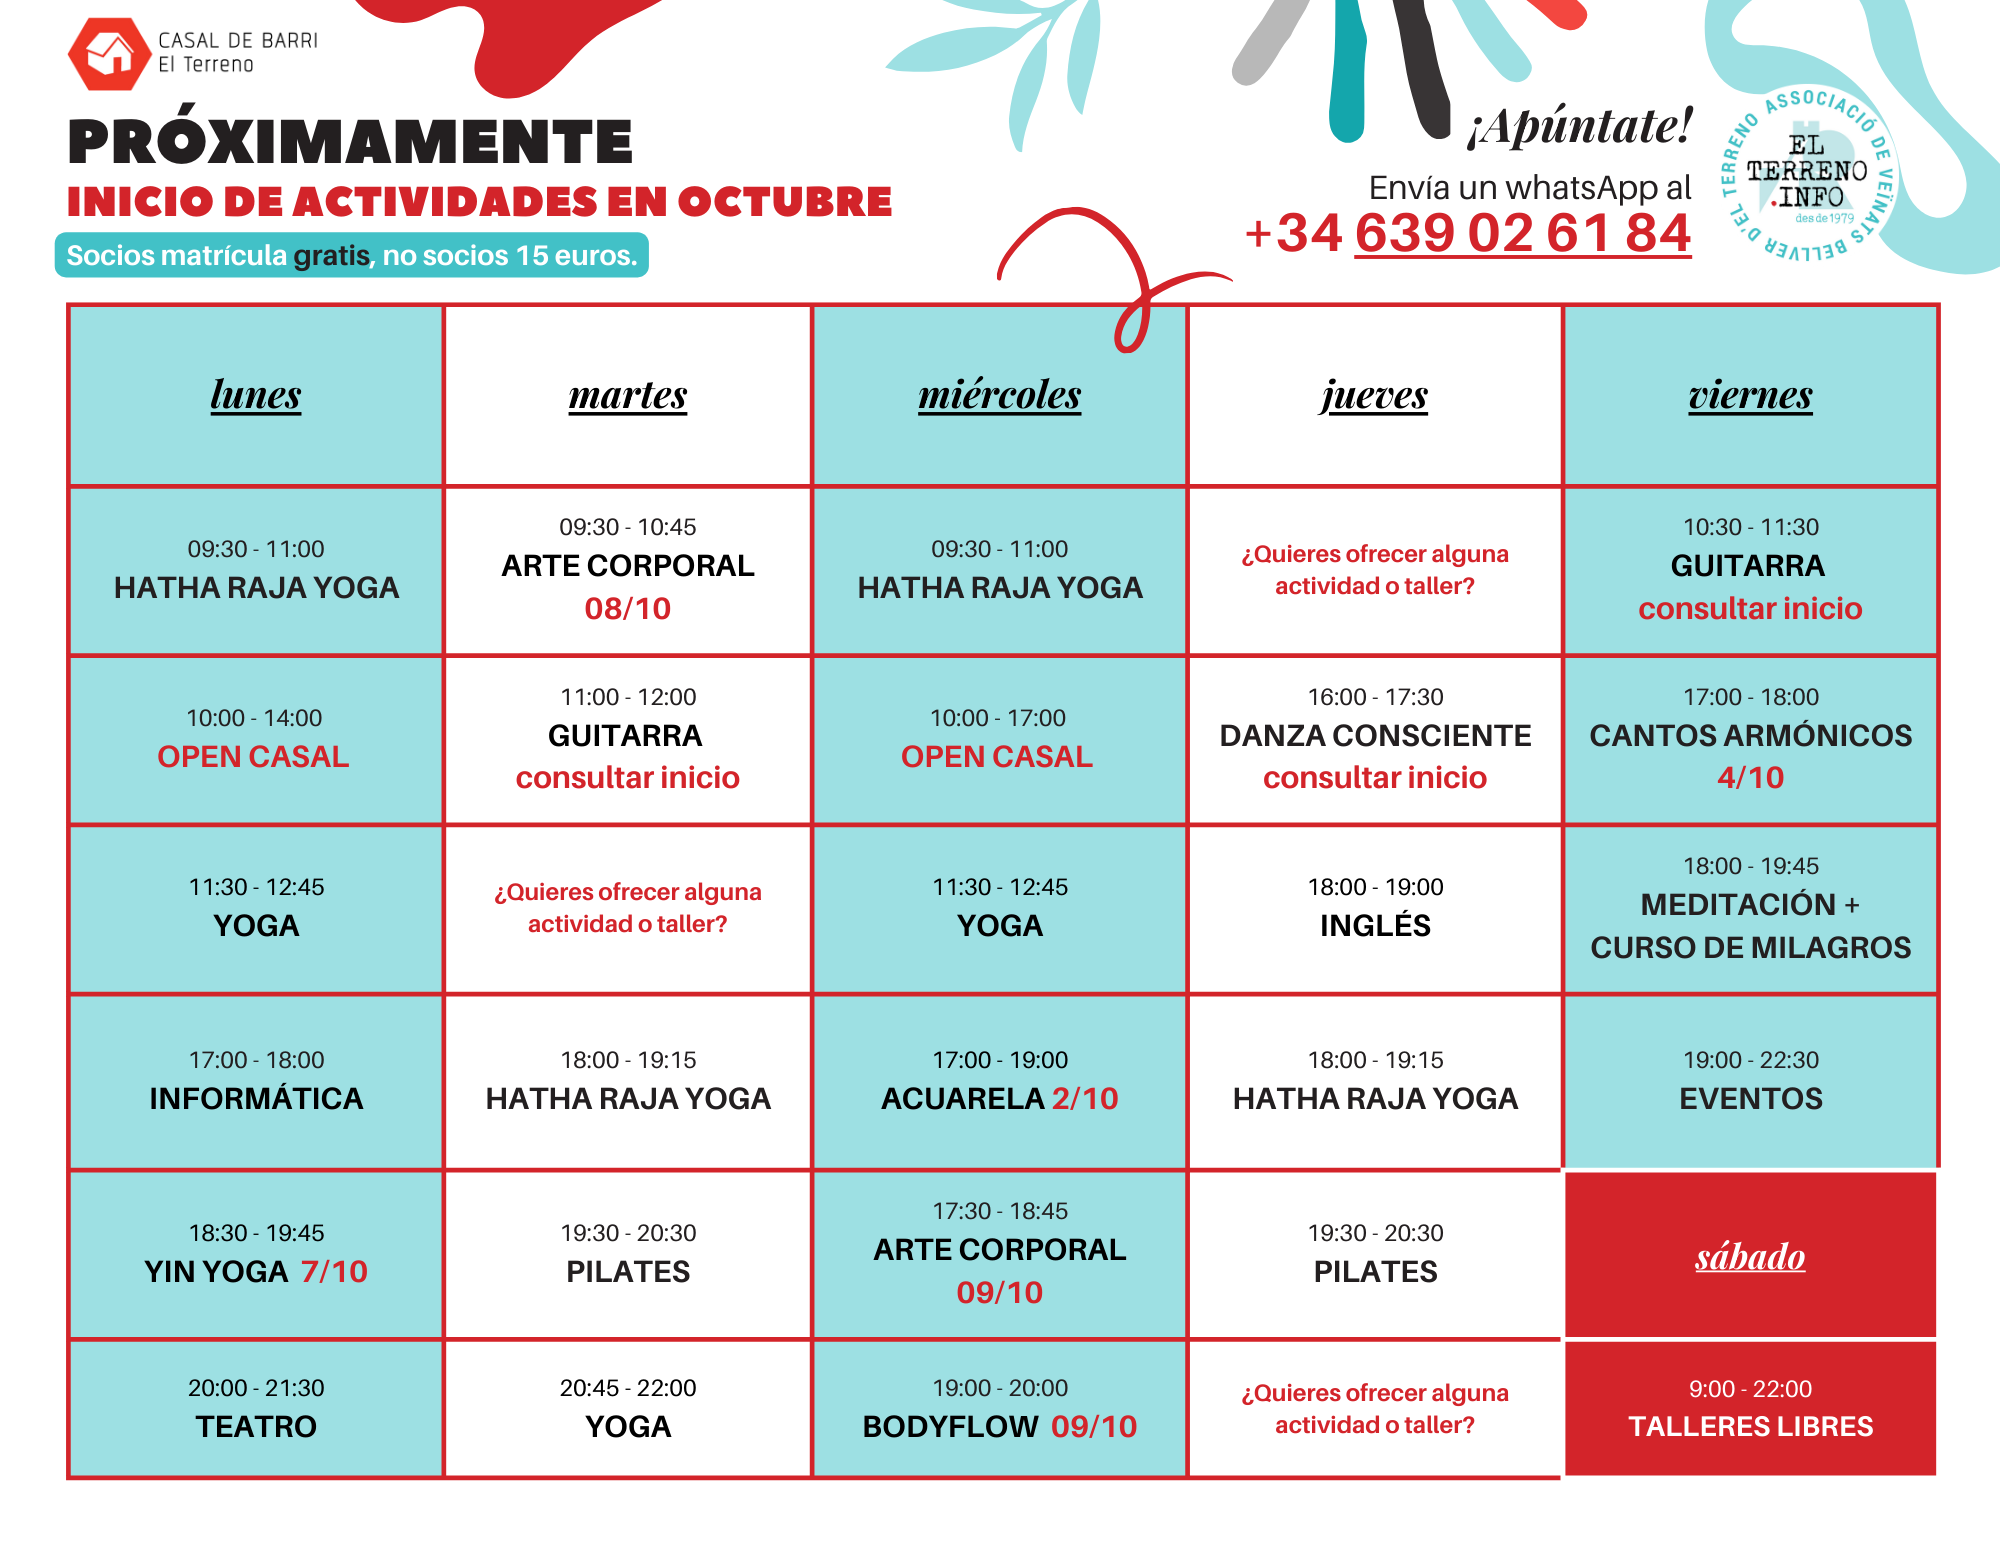
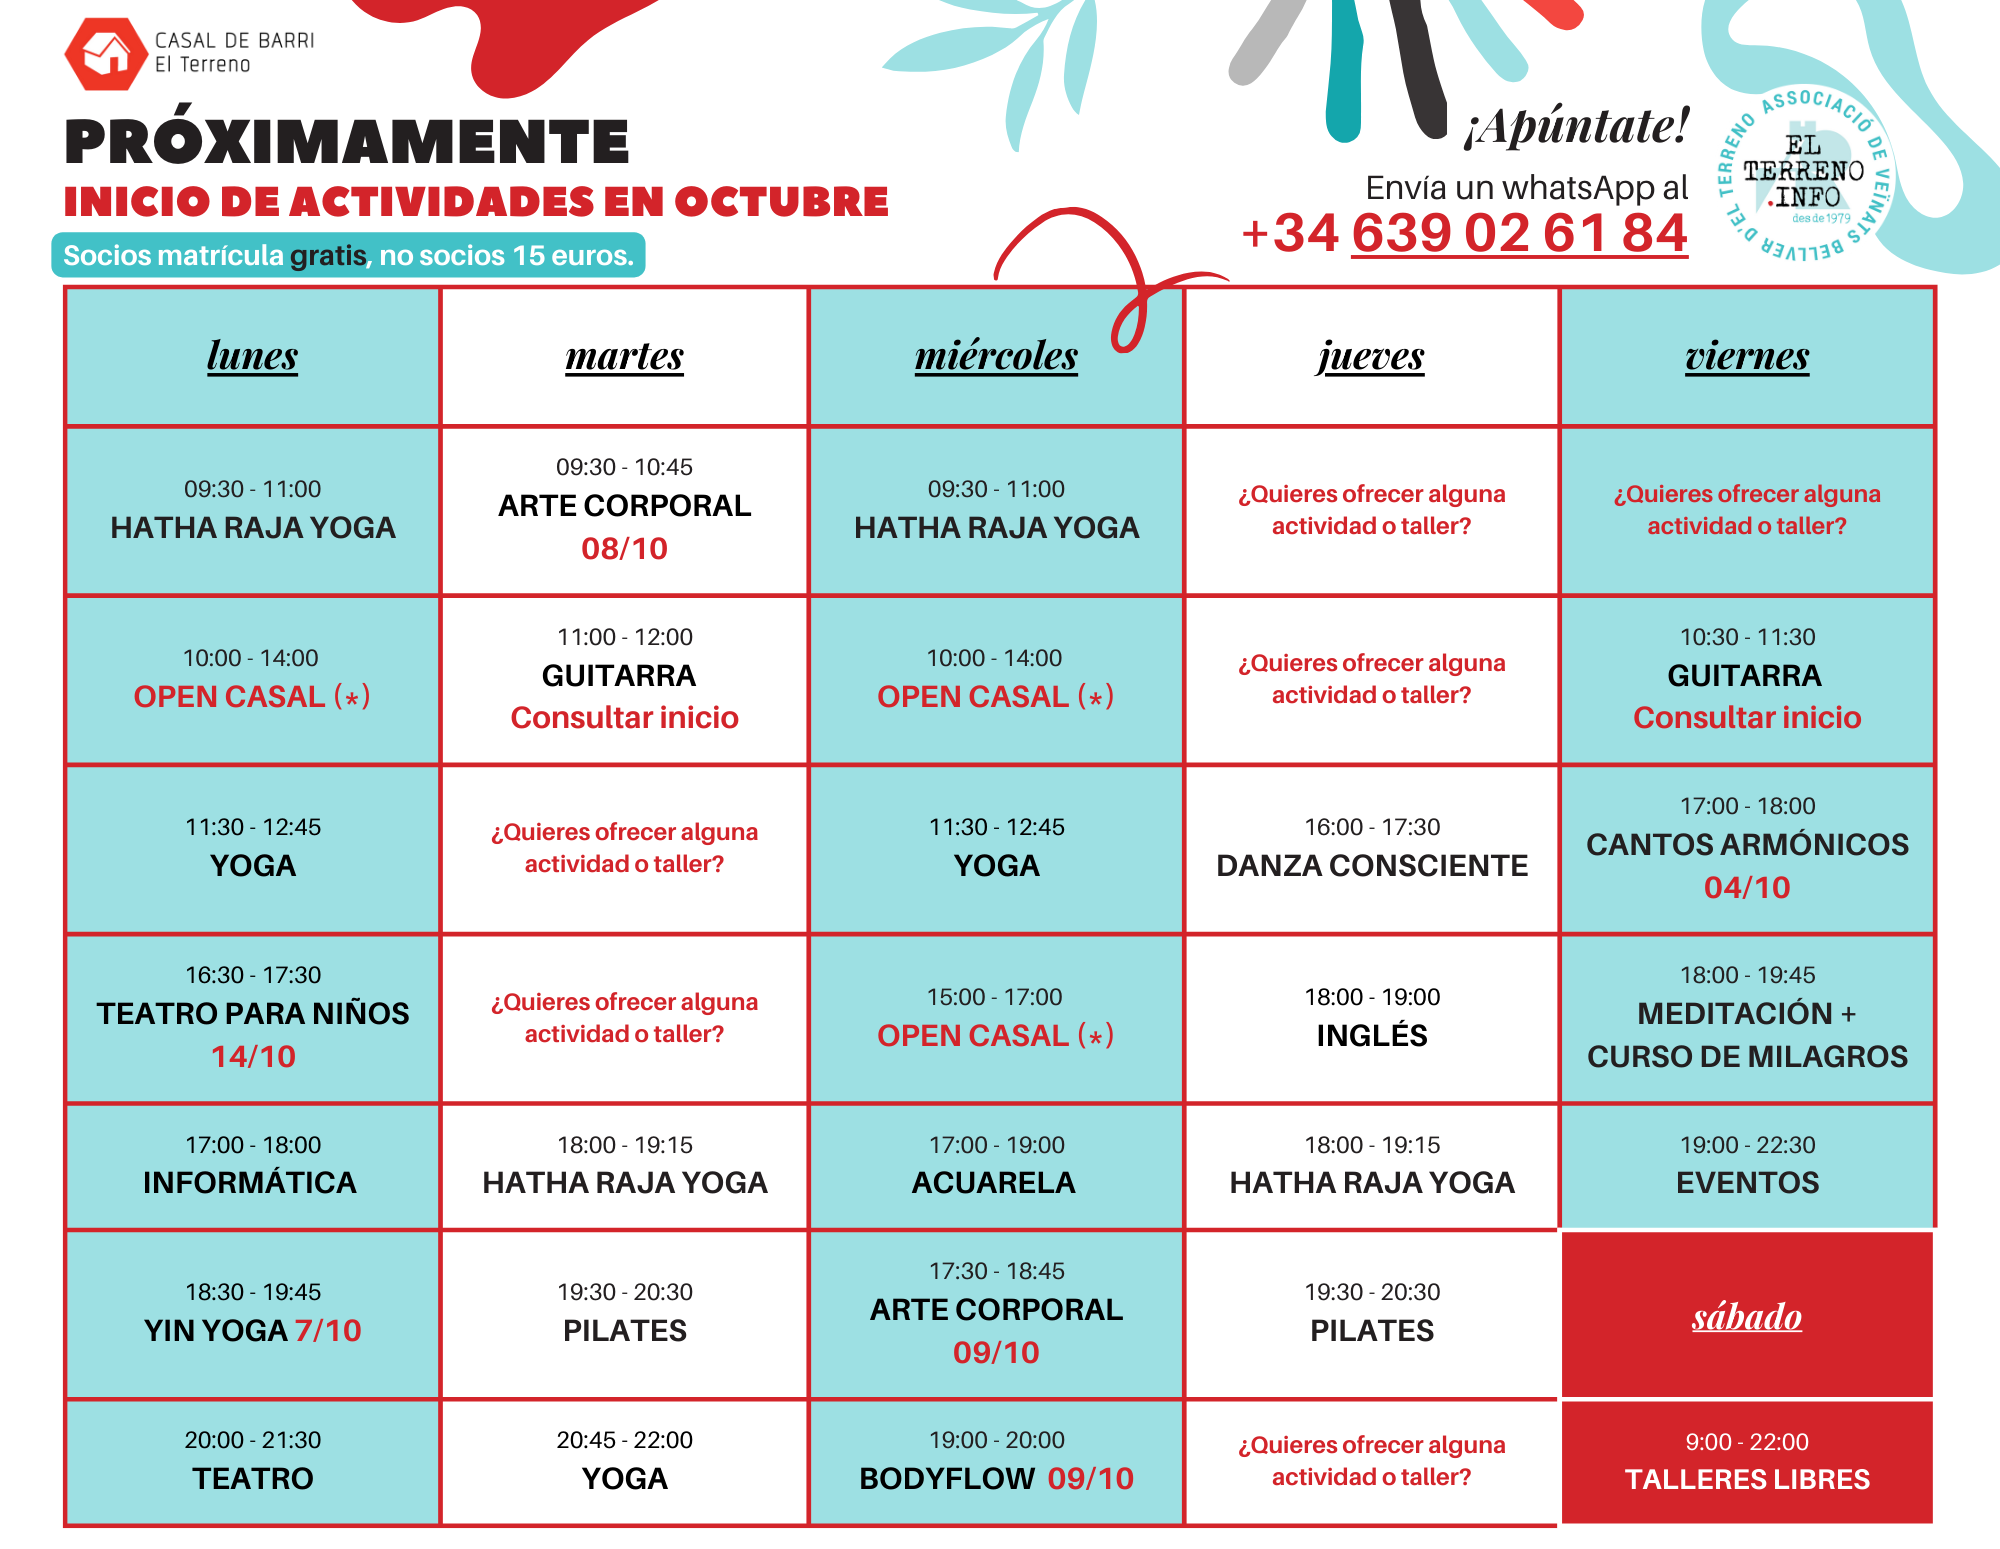
v6.1

diff --git a/index.html b/index.html
@@ -67,12 +67,13 @@
                 <a href="https://api.whatsapp.com/send/?phone=+34687773179&text=%C2%A1Hola%21+Quiero+hacer+una+consulta+sobre+las+clases+de+Guitarra+en+el+casal+de+El+Terreno...+&type=phone_number&app_absent=0" target="_blank" class="cta-button">Guitarra</a>
                 <a href="https://api.whatsapp.com/send/?phone=+34626789134&text=%C2%A1Hola%21+Quiero+hacer+una+consulta+sobre+las+clases+de+Danza+Consciente+en+el+casal+de+El+Terreno...+&type=phone_number&app_absent=0" target="_blank" class="cta-button">Danza Consciente</a>
                 <a href="https://api.whatsapp.com/send/?phone=+34610233159&text=%C2%A1Hola%21+Quiero+hacer+una+consulta+sobre+las+clases+de+Teatro+en+el+casal+de+El+Terreno...+&type=phone_number&app_absent=0" target="_blank" class="cta-button">Teatro</a>
+                <a href="https://api.whatsapp.com/send/?phone=+34610233159&text=%C2%A1Hola%21+Quiero+hacer+una+consulta+sobre+las+clases+de+Teatro+para+Niños+en+el+casal+de+El+Terreno...+&type=phone_number&app_absent=0" target="_blank" class="cta-button">Teatro para Niños</a>
                 <a href="https://api.whatsapp.com/send/?phone=+34630828869&text=%C2%A1Hola%21+Quiero+hacer+una+consulta+sobre+las+clases+de+Yoga+en+el+casal+de+El+Terreno...+&type=phone_number&app_absent=0" target="_blank" class="cta-button">Yoga</a>
                 <a href="https://api.whatsapp.com/send/?phone=+34696411611&text=%C2%A1Hola%21+Quiero+hacer+una+consulta+sobre+las+clases+de+Hatha+Raja+Yoga+en+el+casal+de+El+Terreno...+&type=phone_number&app_absent=0" target="_blank" class="cta-button">Hatha Raja Yoga</a>
                 <a href="https://api.whatsapp.com/send/?phone=+34626892849&text=%C2%A1Hola%21+Quiero+hacer+una+consulta+sobre+las+clases+de+Yin+Yoga+en+el+casal+de+El+Terreno...+&type=phone_number&app_absent=0" target="_blank" class="cta-button">Yin Yoga</a>
-                <a href="https://api.whatsapp.com/send/?phone=+34639157727&text=%C2%A1Hola%21+Quiero+hacer+una+consulta+sobre+los+paseos+vecinales+en+El+Terreno...+&type=phone_number&app_absent=0" target="_blank" class="cta-button">Paseo Vecinal</a>
                 <a href="https://api.whatsapp.com/send/?phone=+34679867345&text=%C2%A1Hola%21+Quiero+hacer+una+consulta+sobre+las+clases+de+cantos+armónicos+en+El+Terreno...+&type=phone_number&app_absent=0" target="_blank" class="cta-button">Cantos Armónicos</a>
                 <a href="https://api.whatsapp.com/send/?phone=+34665857342&text=%C2%A1Hola%21+Quiero+hacer+una+consulta+sobre+las+clases+de+acuarela+en+El+Terreno...+&type=phone_number&app_absent=0" target="_blank" class="cta-button">Acuarela</a>
+                <a href="https://api.whatsapp.com/send/?phone=+34639157727&text=%C2%A1Hola%21+Quiero+hacer+una+consulta+sobre+los+paseos+vecinales+en+El+Terreno...+&type=phone_number&app_absent=0" target="_blank" class="cta-button">Paseo Vecinal</a>
                 <a href="https://chat.whatsapp.com/K3VxbYZjkM1EBywW0RSo7T" target="_blank" class="cta-button">Senderismo</a>
                 <a href="https://chat.whatsapp.com/IGW6dn0VAu1Bk2ozNCZzzO" target="_blank" class="cta-button">Huerto Comunitario</a>
                 <a href="https://docs.google.com/forms/d/e/1FAIpQLScQOw62fiZCpkPmHUuaQYXsAD9PQUSqqNPkdWEgVFNOERJPXw/viewform" target="_blank" class="cta-button">Inscripción al Mercadet</a>
